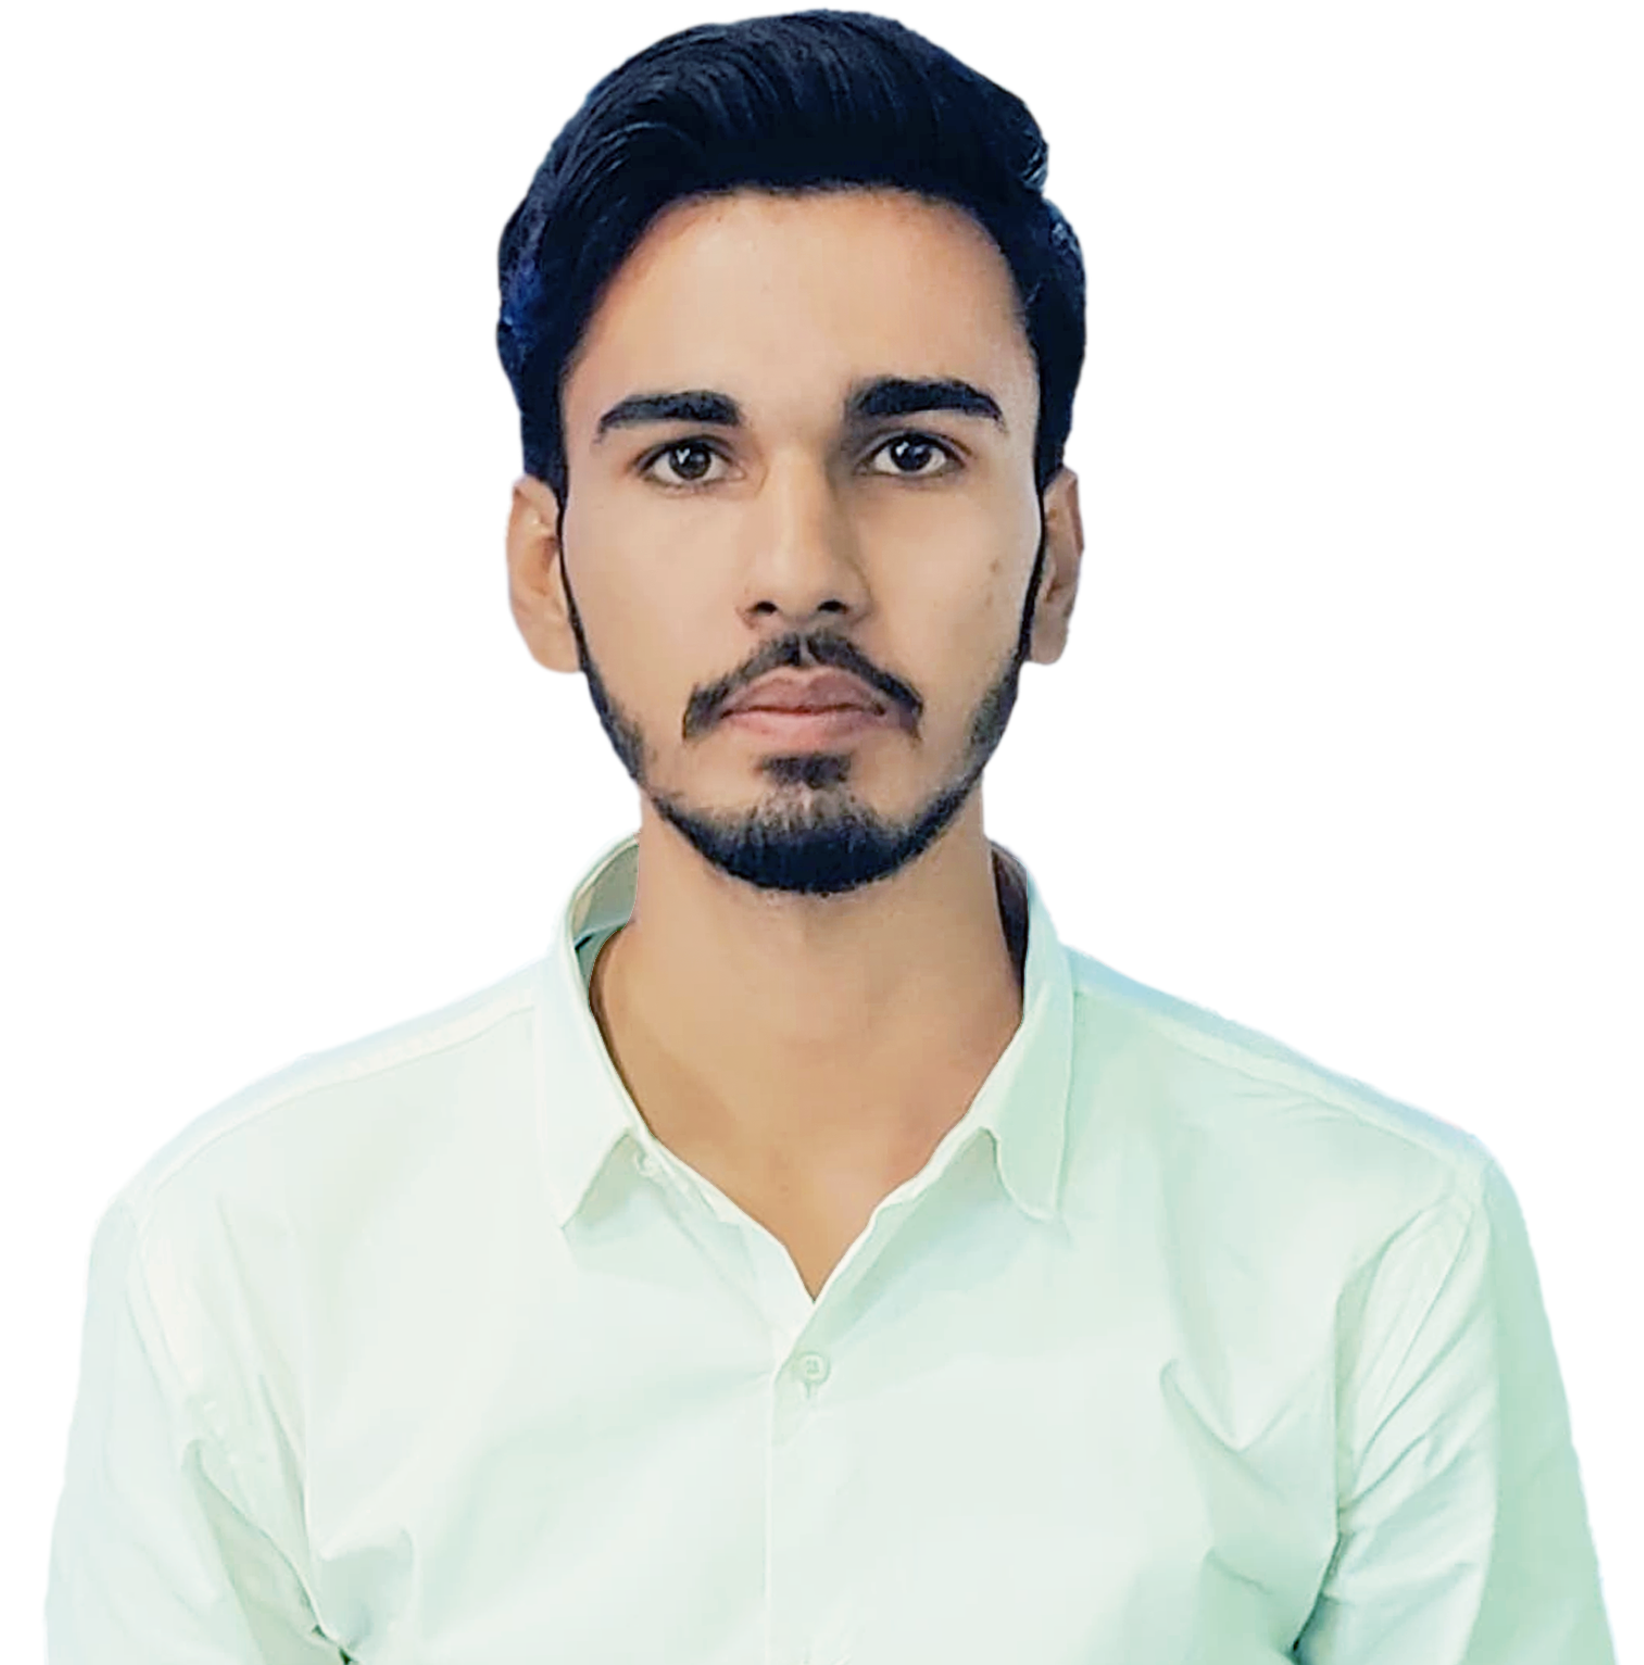
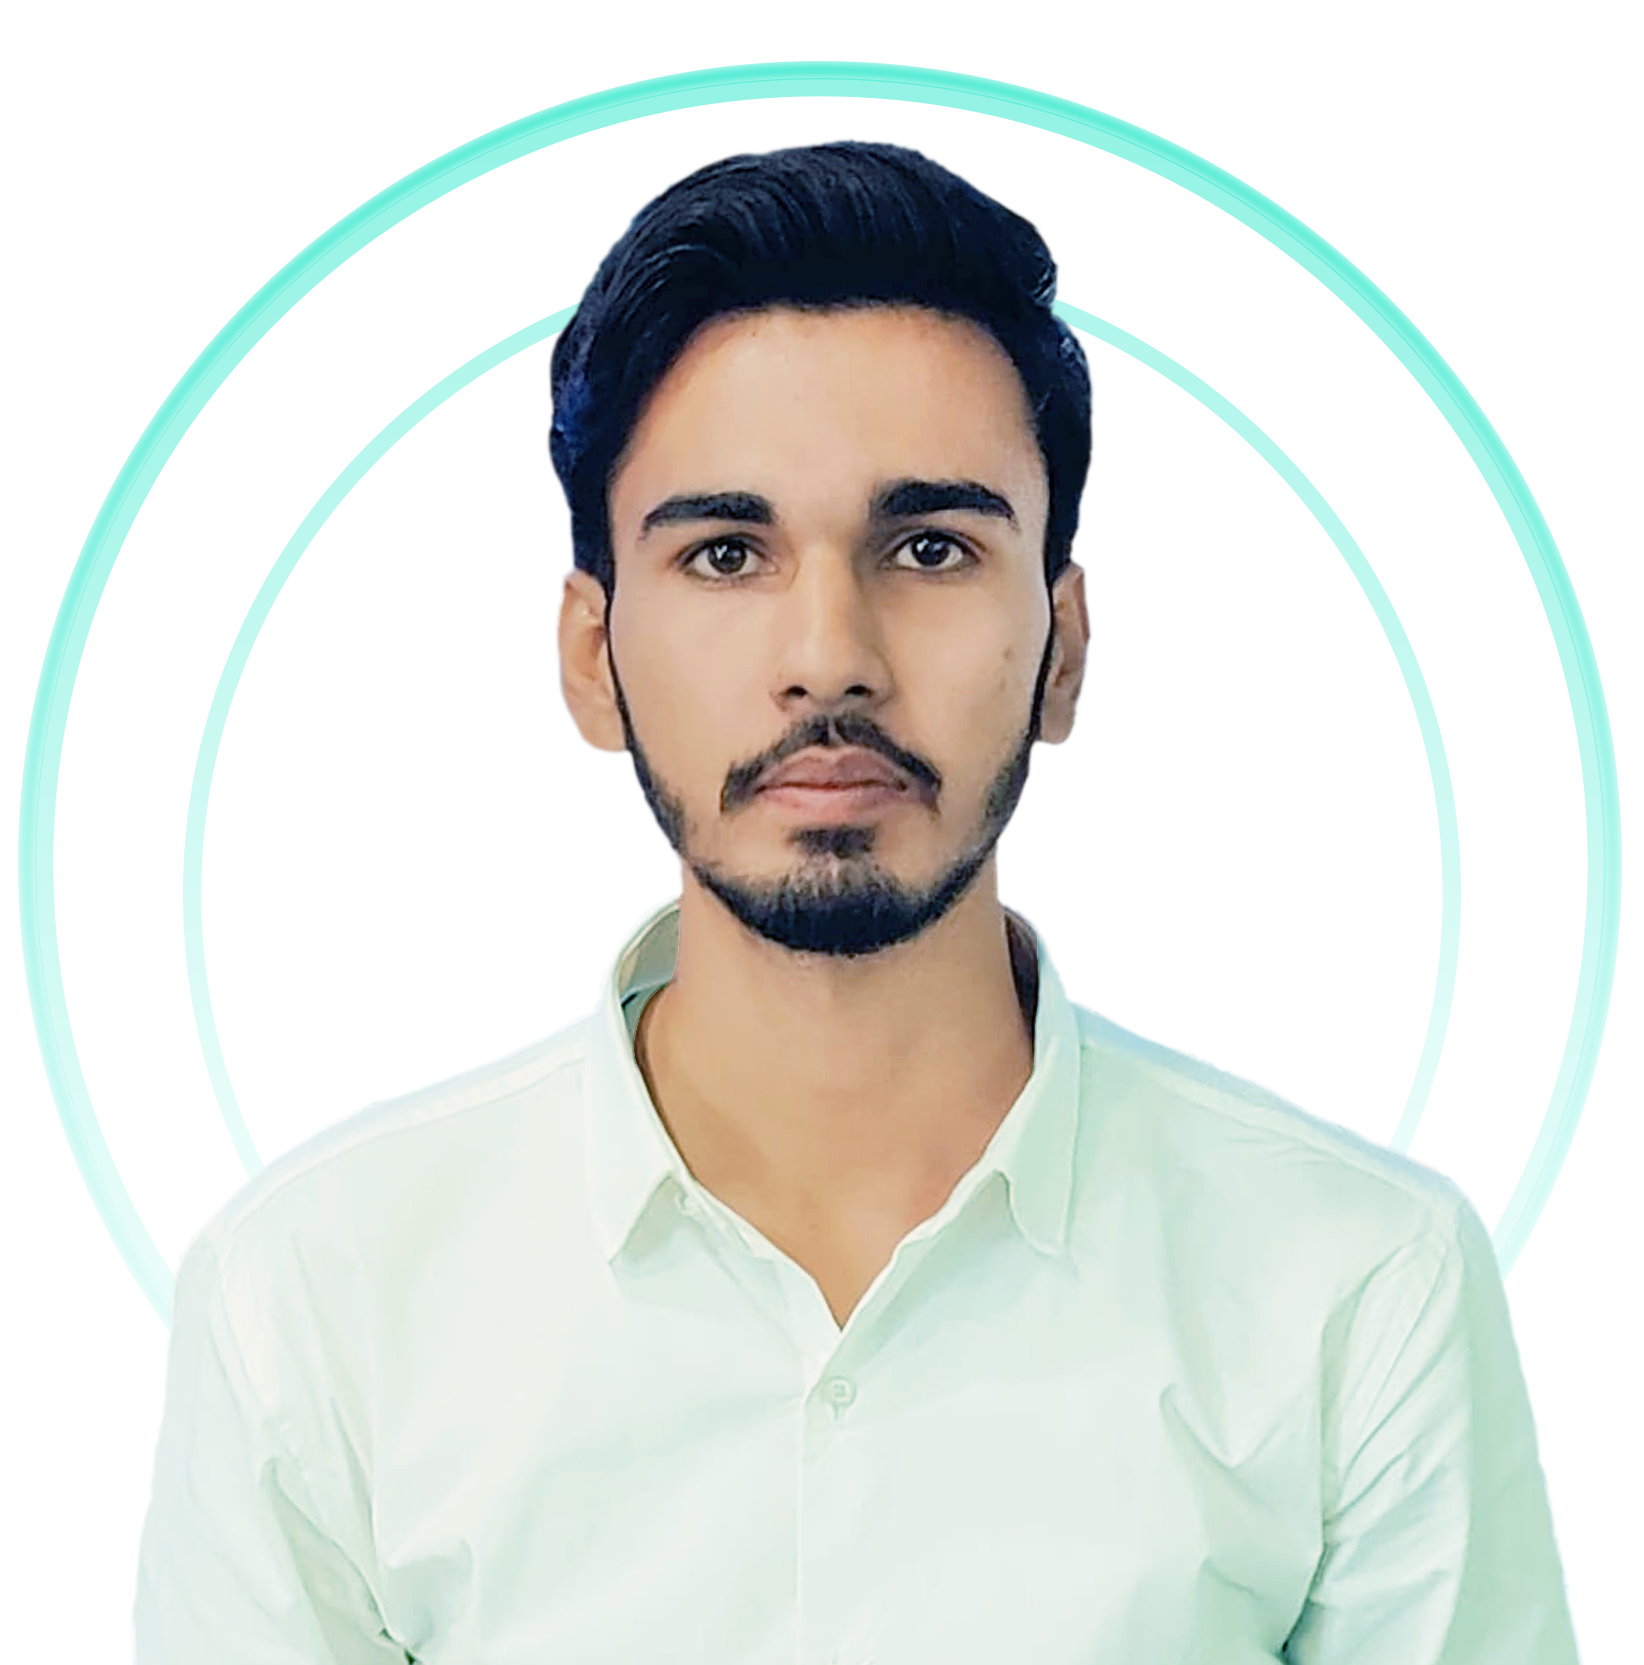
responsive for different size mobile screens

diff --git a/app/globals.css b/app/globals.css
@@ -112,22 +112,6 @@ body{
       opacity:0%;
   }
 }
-#front-right-circle{
-  position: absolute;
-  width:22vw;
-  opacity:40%;
-  margin-left: 59.6vw;
-  margin-top: 28.8vh;
-  /* animation: front-right-circle-move 10s linear infinite; */
-}
-@keyframes front-right-circle-move{
-  from{
-      rotate: 0deg;
-  }
-  to{
-      rotate:1200deg;
-  }
-}
 #front-name-photo{
   display: flex;
   justify-content: space-between;
@@ -170,14 +154,14 @@ body{
 
 #front-para{
   position: absolute;
-  top:73vh;
+  top:78vh;
   transform: translateY(-50%);
   left:50%;
   transform: translateX(-50%); 
   /* height:28vh; */
   width:75vw;
   text-align: center;
-  font-size: 2vw;
+  font-size: 1.5vw;
   font-family: 'Century Gothic';
 }
 #front-square{
@@ -858,20 +842,15 @@ body{
   background-color: rgb(255, 255, 255);
 };
 
-  #front-page{
+#front-page{
     height:50vw;
   }
-  #front-right-circle{
-    width:38vw;
-    right:9.2%;
-    top:6.8vh;
-  }
+  
   #front-name-photo{
     top: 45vw;
     padding:0vh 0vw;
     height:60vw;
     width:70vw;
-
     justify-content: center;
   }
   #profile{
@@ -901,7 +880,6 @@ body{
     font-size: 8vw;
   }
   #offer-bg{
-    /* height:60vh; */
     margin:0vw;
     padding:4vw 0vw;
     /* transform: scale(1.4); */
@@ -933,15 +911,18 @@ body{
     /* text-align: center; */
   }
   #contact{
-    margin-top: 8vh;
-    height:62vh;
-  }
+    /* margin-top: 12vw;
+    padding-top: 15vw;
+    height:75vw; */
+     /* margin-top: 4vw; */
+    height: 60vh;
+  } 
   #contact-heading {
     font-size: 5vw;
     font-weight: bold;
   }
   #accounts-div{
-    height:10vh;
+    height:15vw;
     flex-direction: column;
     align-items: center;
     gap:1vw;
@@ -958,7 +939,7 @@ body{
     width:5.5vw;
   }
   #account h1{
-    font-size:4vw;
+    font-size:4.2vw;
   }
 
   #projects{
@@ -1077,4 +1058,4 @@ body{
     z-index: 1;
   }
 
-}
+  }

diff --git a/app/LandingPage/page.tsx b/app/LandingPage/page.tsx
@@ -14,7 +14,7 @@ export default function LandingPage() {
             <div id="front-page">
 
                 <img id="front-left-circle" src="/front left circle.png" alt="" />
-                <img id="front-right-circle" src="/front right circle.png" alt="" />
+                {/* <img id="front-right-circle" src="/front right circle.png" alt="" /> */}
 
                 <div id="front-name-photo">
                     <div id="front-name" className="flex flex-col justify-center items-start">
